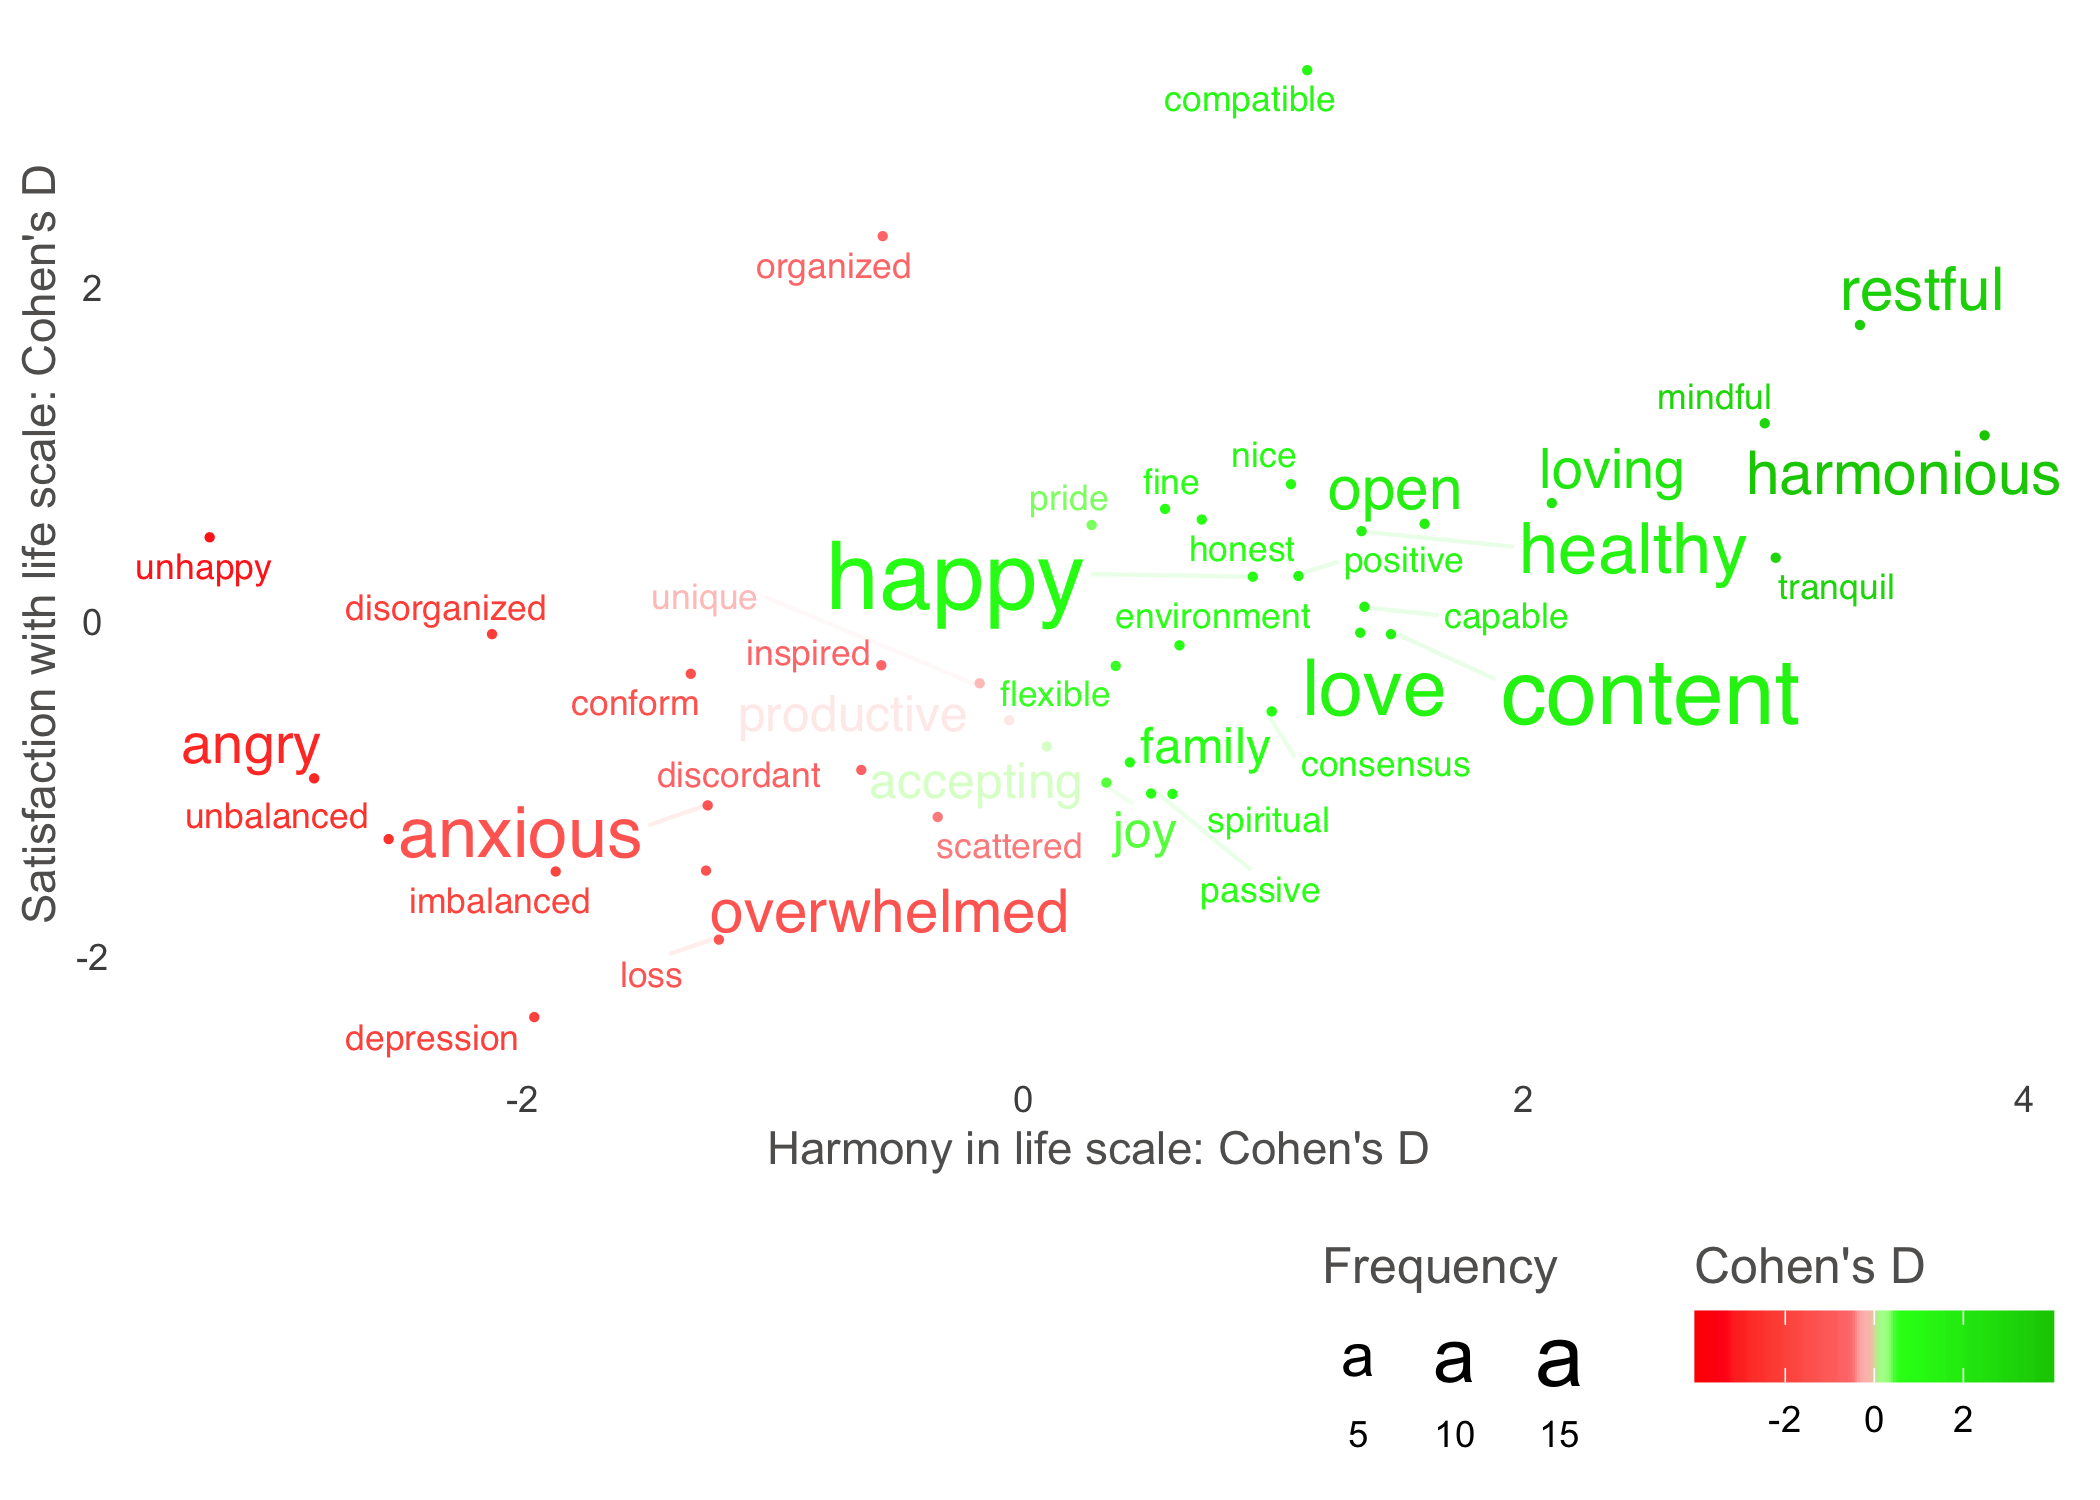
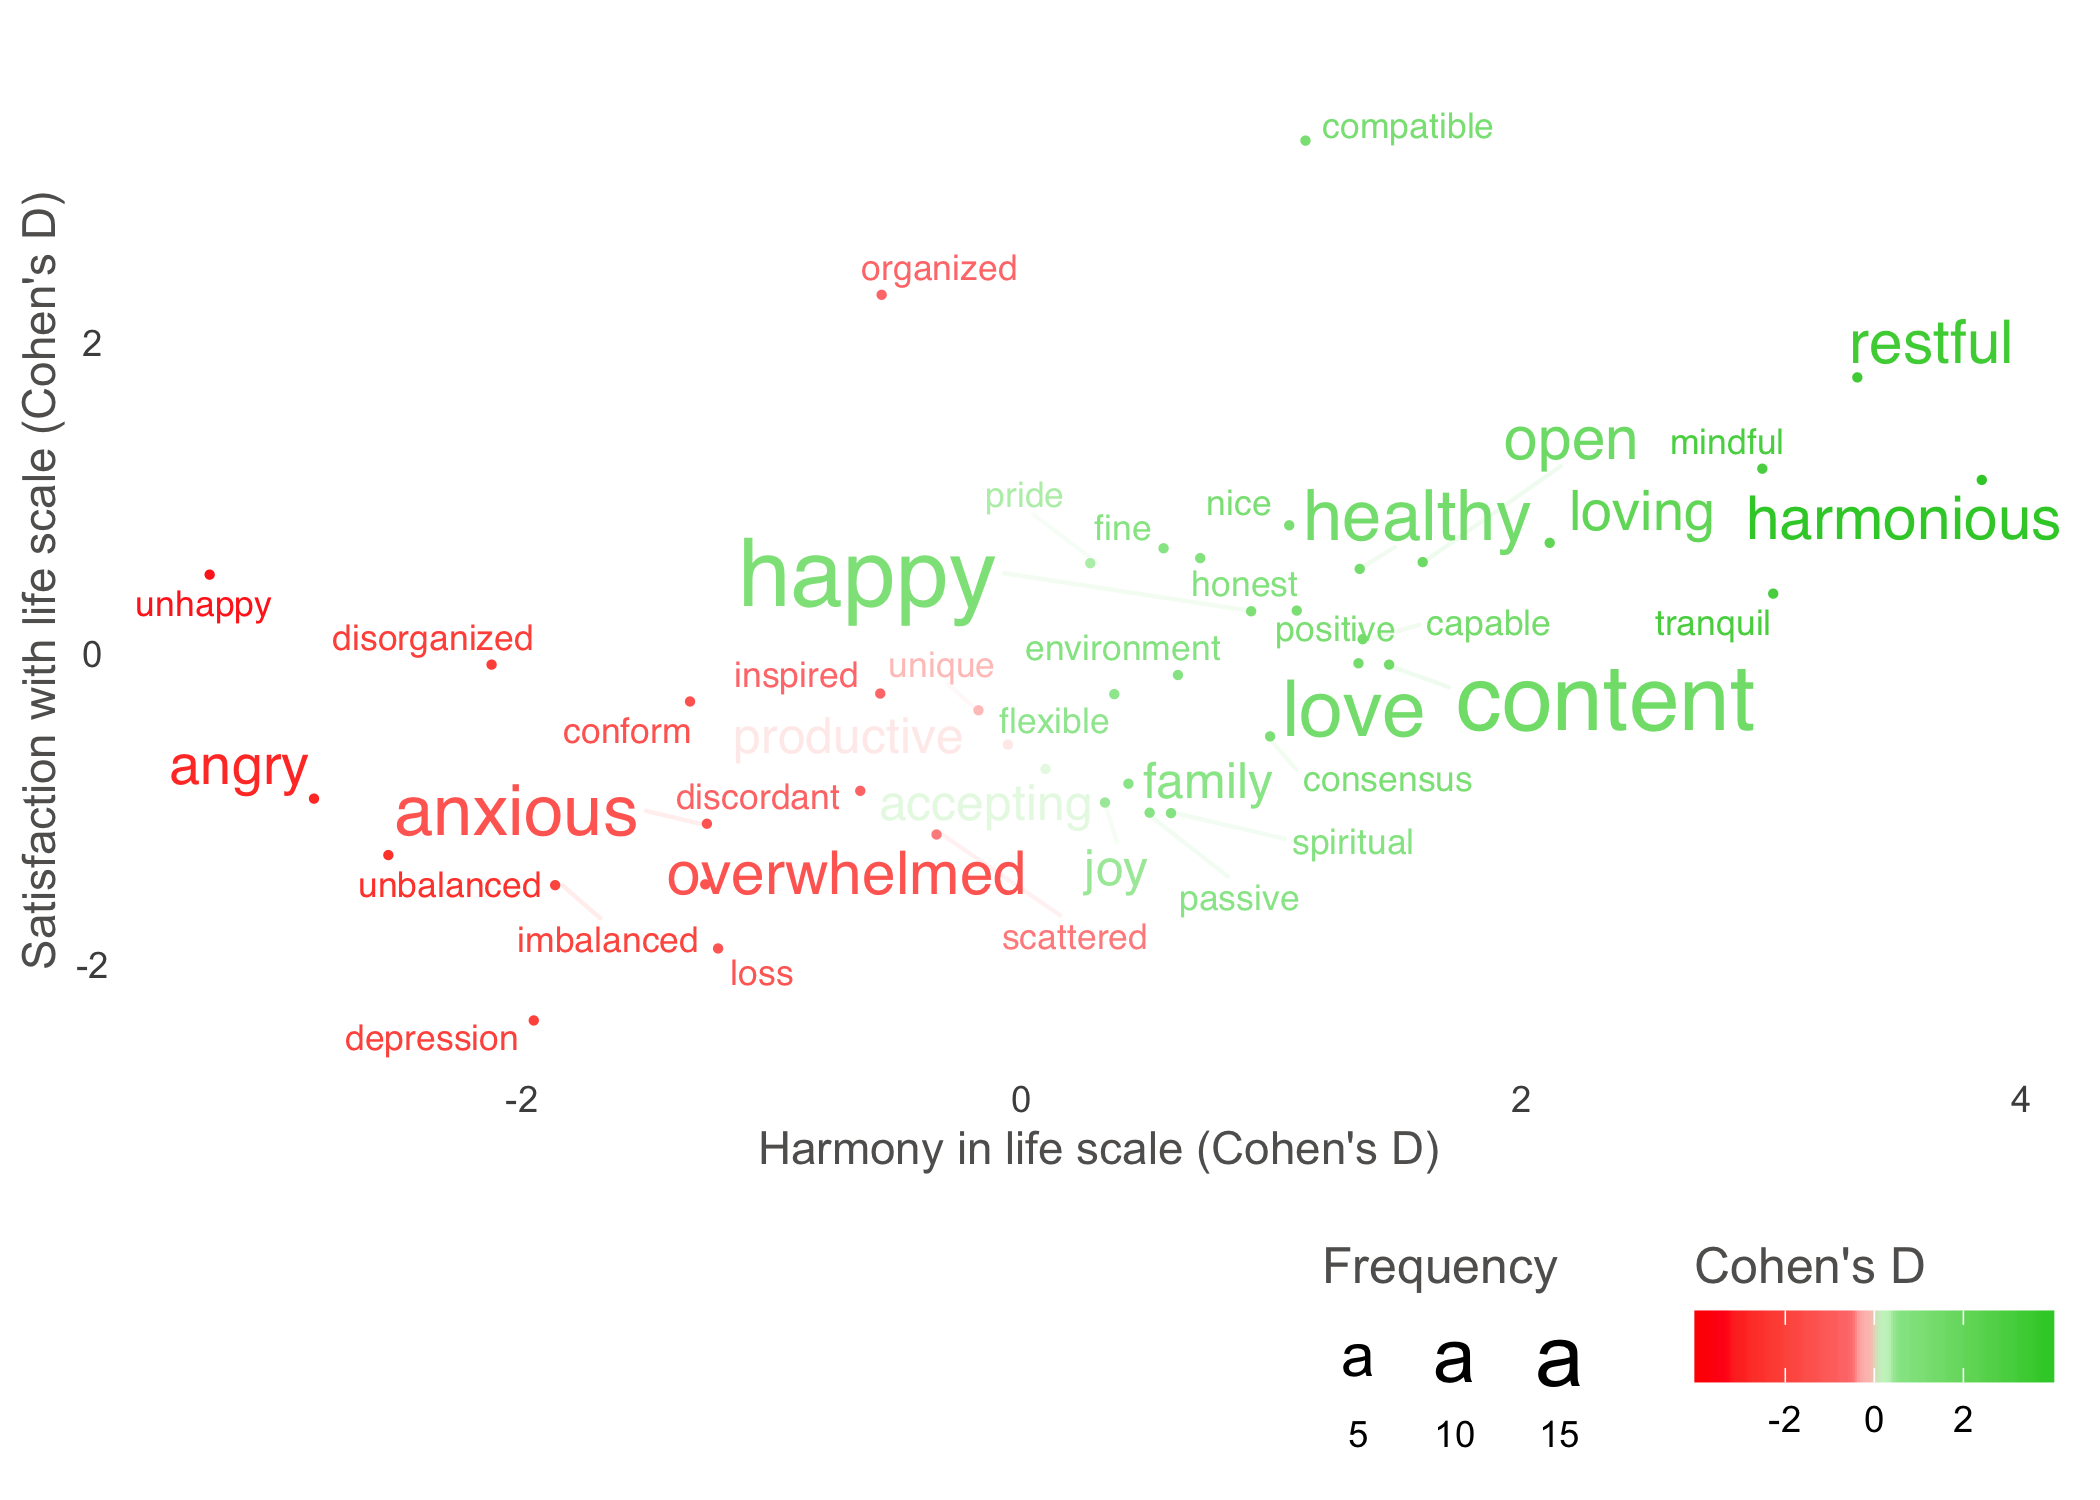
plot update

diff --git a/README.md b/README.md
@@ -54,15 +54,26 @@ wordembeddings <- textImport(sq_data)
 library(text)
 
 # Load already imported word embeddings, and their corresponding numeric variables
-wordembeddings <- wordembeddings4_10
-numeric_data   <- sq_data_tutorial4_10
+wordembeddings <- wordembeddings1_100
+numeric_data   <- sq_data_tutorial4_100
 
 
 # Examine the relationship between harmony-text and Harmony in life scale (HILS) scores
-model_htext_hils <- textTrain(wordembeddings$harmonytexts, numeric_data$hilstotal, nrFolds_k=2)
+model_htext_hils <- textTrain(wordembeddings$harmonytexts, numeric_data$hilstotal, nrFolds_k=10)
 
 # Show the correlation between predicted and observed Harmony in life scale scores
 model_htext_hils$Correlation
+#> 
+#>  Pearson's product-moment correlation
+#> 
+#> data:  model$pred$pred and model$pred$obs
+#> t = 12.325, df = 98, p-value < 2.2e-16
+#> alternative hypothesis: true correlation is not equal to 0
+#> 95 percent confidence interval:
+#>  0.6886813 0.8464371
+#> sample estimates:
+#>       cor 
+#> 0.7796382
 ```
 
 ## Show your data by plotting statistically significant words
@@ -75,8 +86,8 @@ library(text)
 plot <- textPlotViz(word_data = sq_data_plottingHw_HILSSSWLS_100,
       x_axes = "cohensD.x",
       y_axes = "cohensD.y",
-      x_axes_label = "HILS: Cohen's D",
-      y_axes_label = "SWLS: Cohen's D")
+      x_axes_label = "Harmony in life scale (Cohen's D)",
+      y_axes_label = "Satisfaction with life scale (Cohen's D)")
 plot
 ```
 
